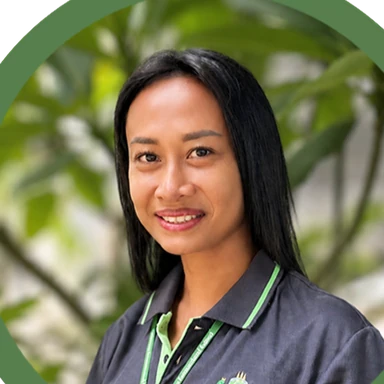
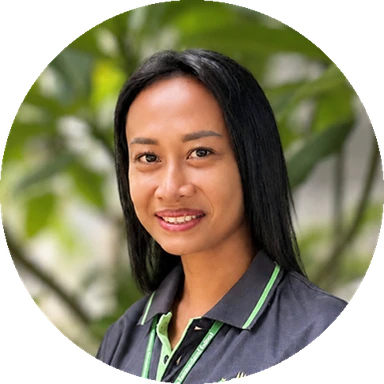
Our Team: re-crop Tip from George's re-supplied photo
Same framing as before, taken from the supplied Tip.png inside its baked
green ring; master kept at 485 px with no upscaling.

Claude-Session: https://claude.ai/code/session_01PoY1PJhjH1TXN1mwSNCBUP

diff --git a/PHOTO-SOURCES.md b/PHOTO-SOURCES.md
@@ -55,7 +55,7 @@ This register reflects the latest user-selected photos for Campus, Secondary, Pr
 
 - `our-school/our-team/` / Mr Dara: new HEIC portrait supplied 11 October 2026; sRGB, cropped closer to a head-and-shoulders circle to match the roster, 570 × 570 circular transparent PNG master in `assets/images/team/dara.png`, served as `assets/images/optimized/team-dara-v2.webp`. The Head of School welcome page photo is unchanged.
 - `our-school/our-team/` / Mr Mark: original `Mark.HEIC` (re-supplied 11 October 2026); sRGB, full-width square crop framed to match Mr Dara, with a light warm (yellow) and saturation lift, 570 × 570 circular transparent PNG master in `assets/images/team/mark.png`, served as `assets/images/optimized/team-mark-colour-v5.webp`.
-- `our-school/our-team/` / Ms Tippawan (Tip): cropped about 15% tighter on 27 October 2026 (George's request) from the existing `assets/images/team/tip.png`: 485 px square centred at 265,248, so she sits lower and larger, matching Mr Dara and Mr Mark. 570 × 570 transparent PNG master `assets/images/team/tip-v2.png`, served as `assets/images/optimized/team-tip-v2.webp` (WebP quality 90, 23 KB). The old files are kept.
+- `our-school/our-team/` / Ms Tippawan (Tip): re-cropped about 15% tighter on 27 October 2026 from George's re-supplied `Tip.png` (674 × 674 with a baked-in green ring): 485 px square at 75,58, inside the ring, so she sits lower and larger, matching Mr Dara and Mr Mark. The circular transparent master `assets/images/team/tip-v2.png` is kept at 485 × 485 (no upscaling) and served as `assets/images/optimized/team-tip-v2.webp` (384 px, WebP quality 90, 26 KB). The old files are kept.
 - `our-school/our-team/` / Ms Jassy, Mr Josh, Ms Minda: no photo yet; they show the green person-icon placeholder (`.team-avatar-v2--placeholder`).
 
 ## Earlier photo-selection history
